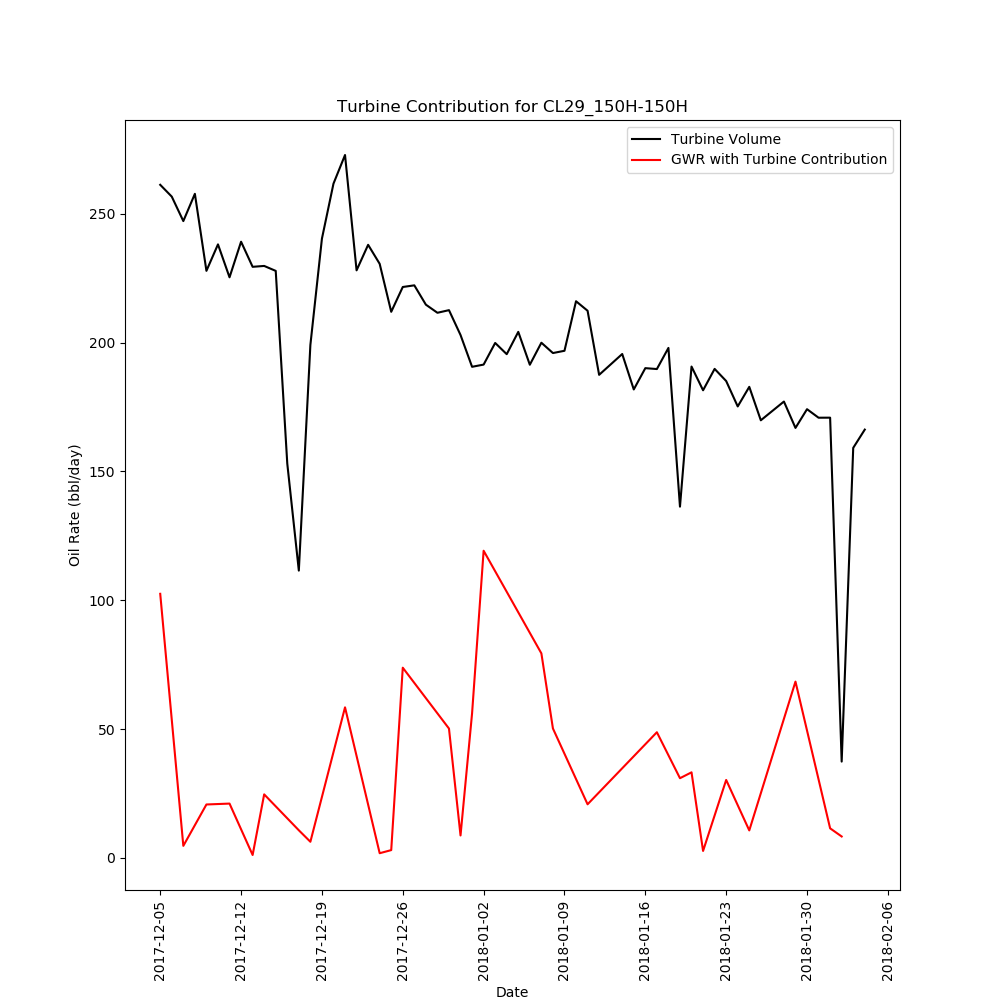
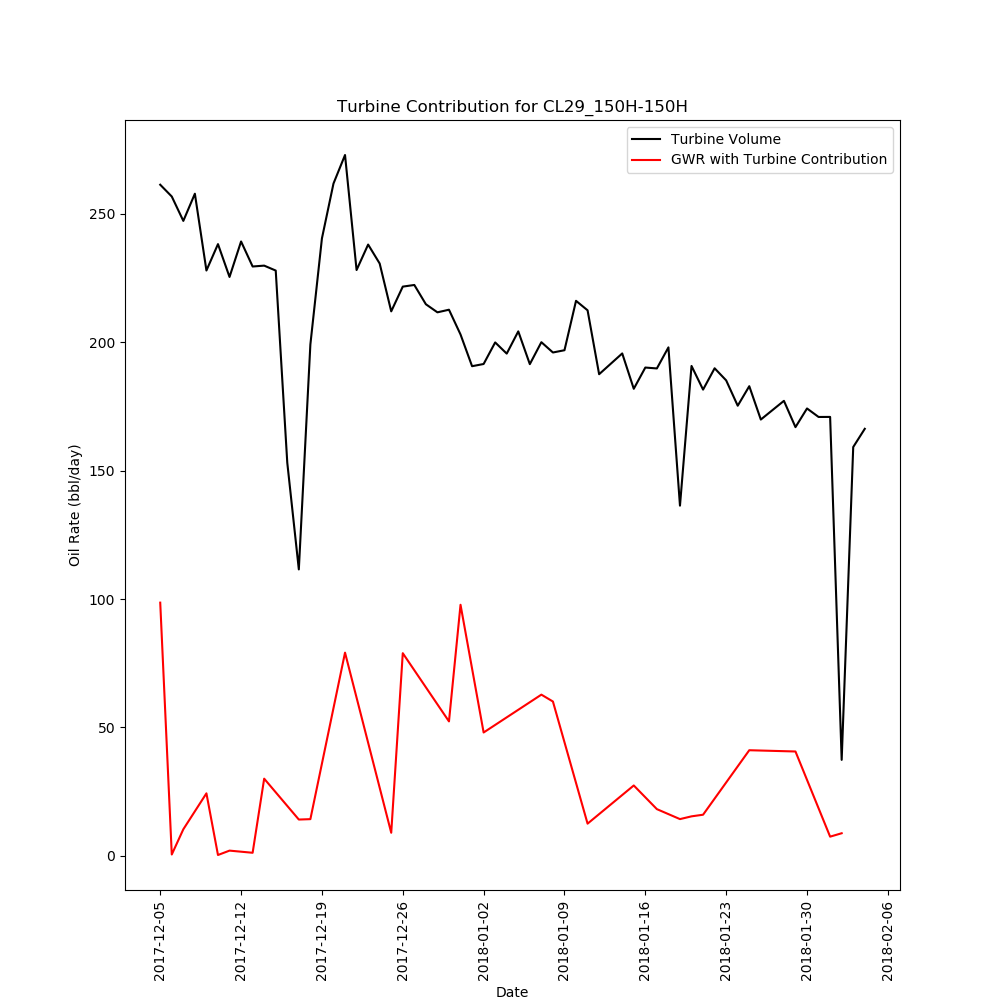
updating contributions

diff --git a/turbine.py b/turbine.py
@@ -118,7 +118,7 @@ def turb_contr(gwr_df, turbine_df):
 
 	g_df = g_df[['Facilitykey', 'time', 'FacilityName', 'water', 'oil']]
 	g_df['time'] = pd.DatetimeIndex(g_df['time']).normalize()
-	g_df = g_df.groupby(['Facilitykey', 'FacilityName', 'time'], as_index=False).median()
+	g_df = g_df.groupby(['Facilitykey', 'FacilityName', 'time'], as_index=False).mean()
 
 	t_df.loc[:, 'time'] = pd.to_datetime(t_df['flow_date'])
 	t_df = t_df[['tag_prefix', 'FacilityName', 'time', 'volume', 'API']]
@@ -161,21 +161,44 @@ def plot_contr(df):
 
 	plt.savefig('images/contributions/cont_{}.png'.format(well))
 
+def gauge_plot(df, gauge_df):
+    plt.close()
+    fig, ax = plt.subplots(1, 1, figsize=(12, 10))
+
+    date_min = df['CalcDate'].min()
+    date_max = df['CalcDate'].max()
+    g_df = gauge_df[(gauge_df['gaugeDate'] >= date_min) & (gauge_df['gaugeDate'] <= date_max)]
+
+    ax.plot(df['time'], df['LGROil'], label='LGR Value')
+    ax.plot(g_df['gaugeDate'], g_df['total_oil'], 'ro', label='Real Gauges')
+    ymin, ymax = plt.ylim()
+
+    facility = lgr_df['FacilityName'].unique()[0]
+    plt.title('LGR for Facility {}'.format(facility))
+    ax.set_xlabel('Date')
+    ax.set_ylabel('bbl Oil')
+    plt.ylim(ymin=0)
+
+    plt.xticks(rotation='vertical')
+    plt.legend()
+
+    plt.savefig('images/contributions/gauge/{}.png'.format(facility))
+
 
 if __name__ == "__main__":
 	# df = data_conn()
 	# df = shift_volumes(df)
 	# df.to_csv('data/turbine.csv')
-	# df = pd.read_csv('data/turbine.csv')
+	df = pd.read_csv('data/turbine.csv')
 
 	# gwr_df = turbine_gwr_pull()
 	# gwr_df.to_csv('data/turbine_gwr.csv')
-	# gwr_df = pd.read_csv('data/turbine_gwr.csv')
+	gwr_df = pd.read_csv('data/turbine_gwr.csv')
 
-	# tag_df = tag_dict()
-	# turbine_df = df.merge(tag_df, on='tag_prefix', how='inner')
-	# g_df = turb_contr(gwr_df, turbine_df)
-	# g_df.to_csv('data/turbine_contribution.csv')
+	tag_df = tag_dict()
+	turbine_df = df.merge(tag_df, on='tag_prefix', how='inner')
+	g_df = turb_contr(gwr_df, turbine_df)
+	g_df.to_csv('data/turbine_contribution.csv')
 
 	g_df = pd.read_csv('data/turbine_contribution.csv')
 	g_df['time'] = pd.to_datetime(g_df['time'])
